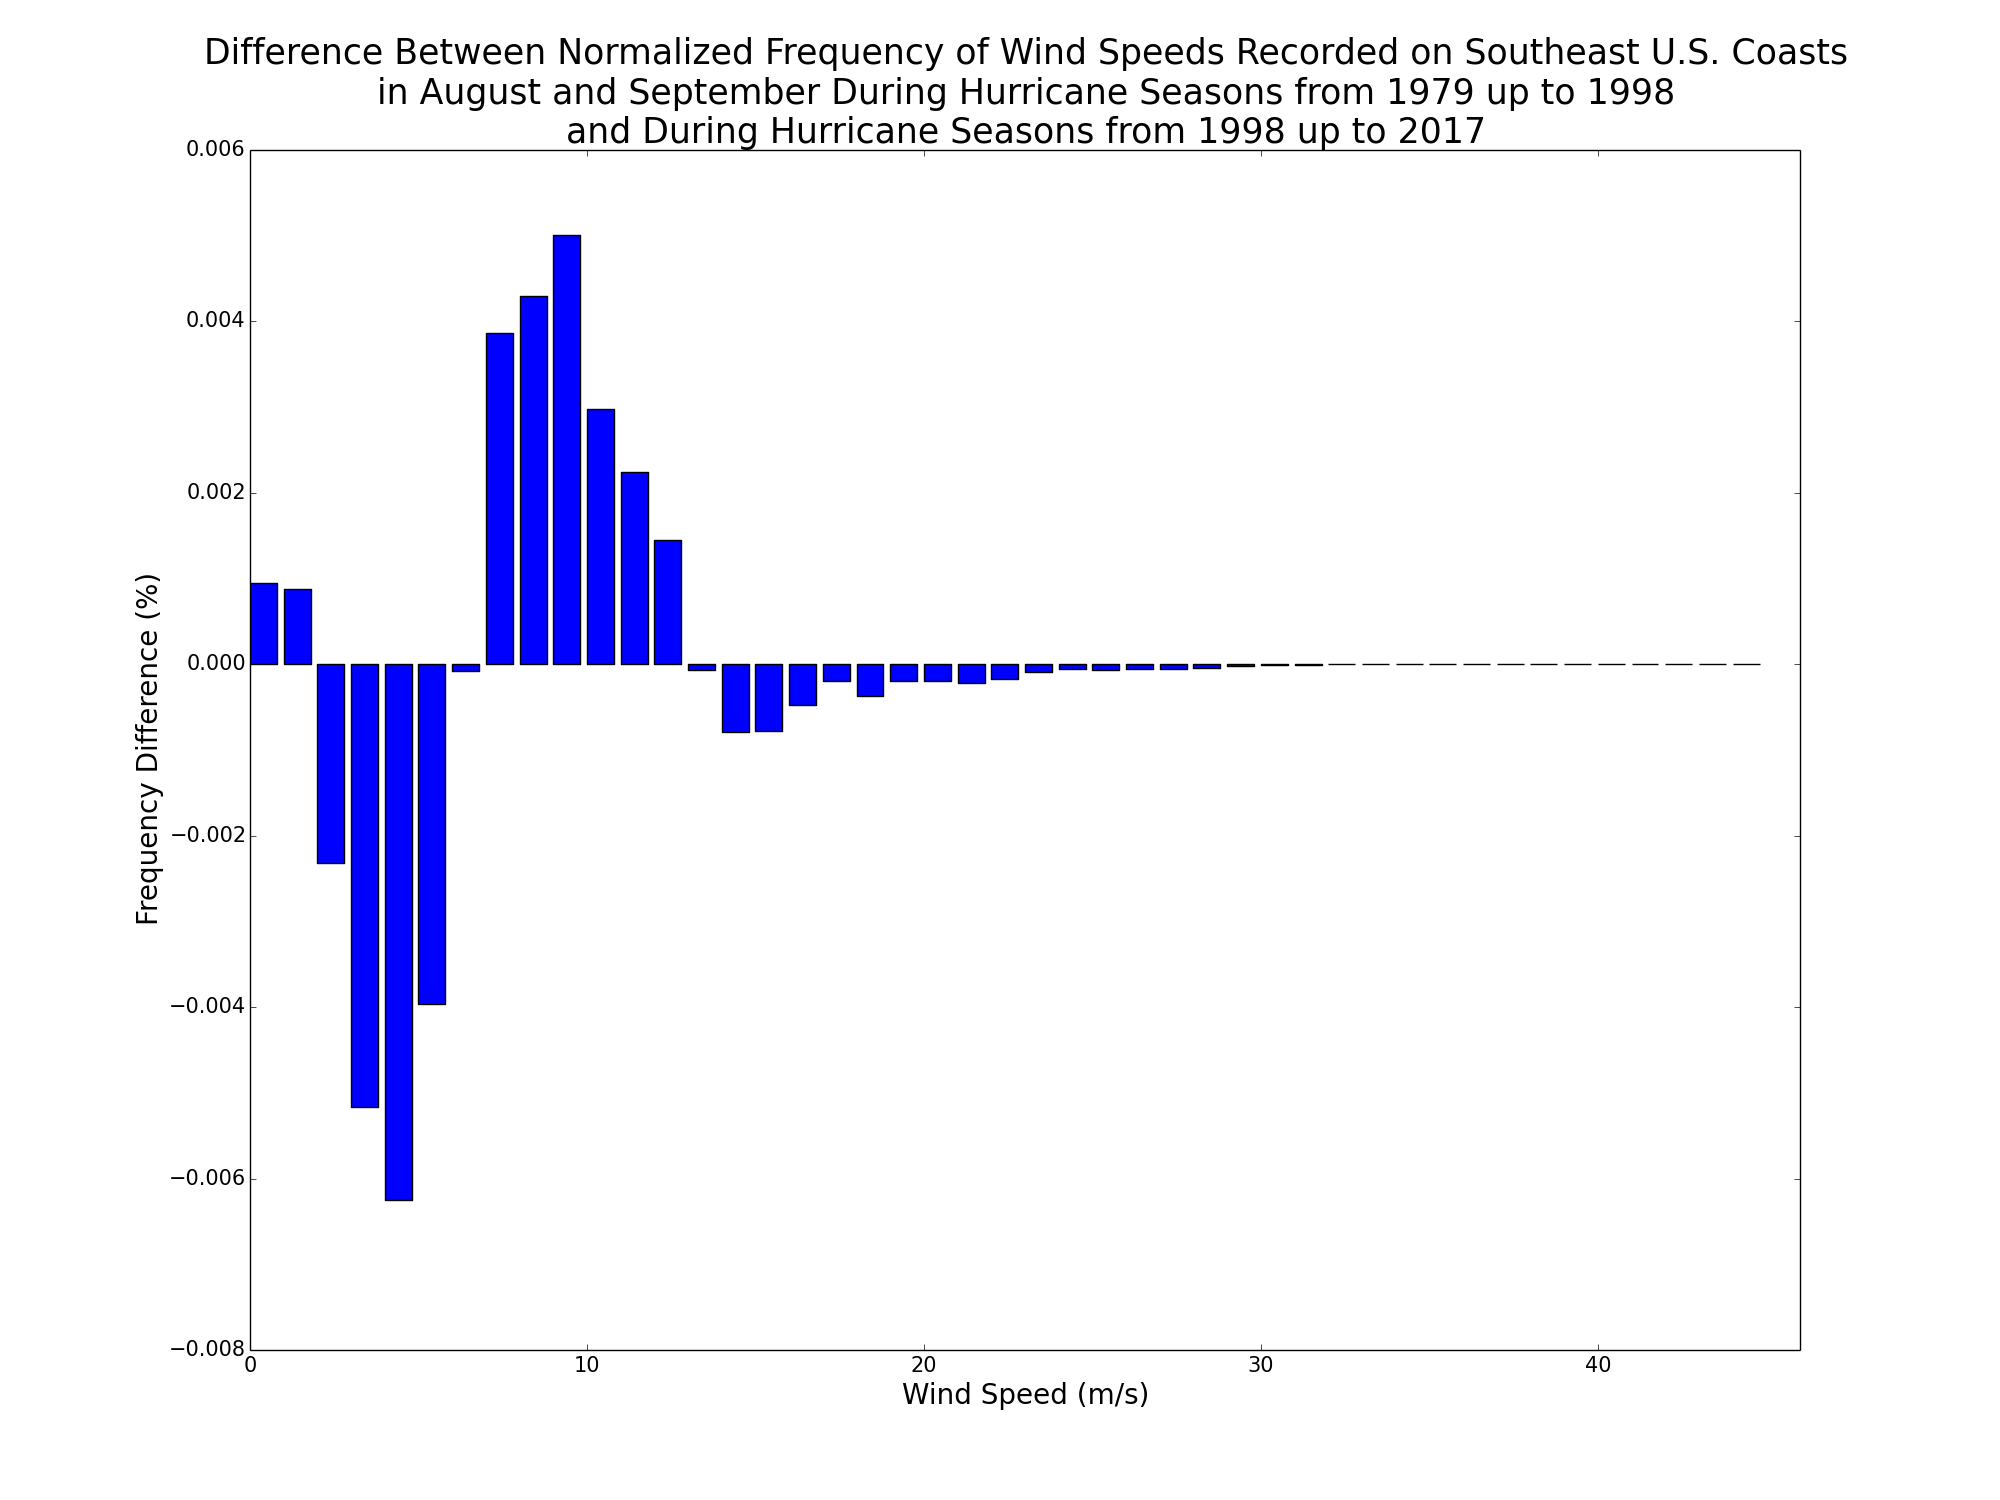
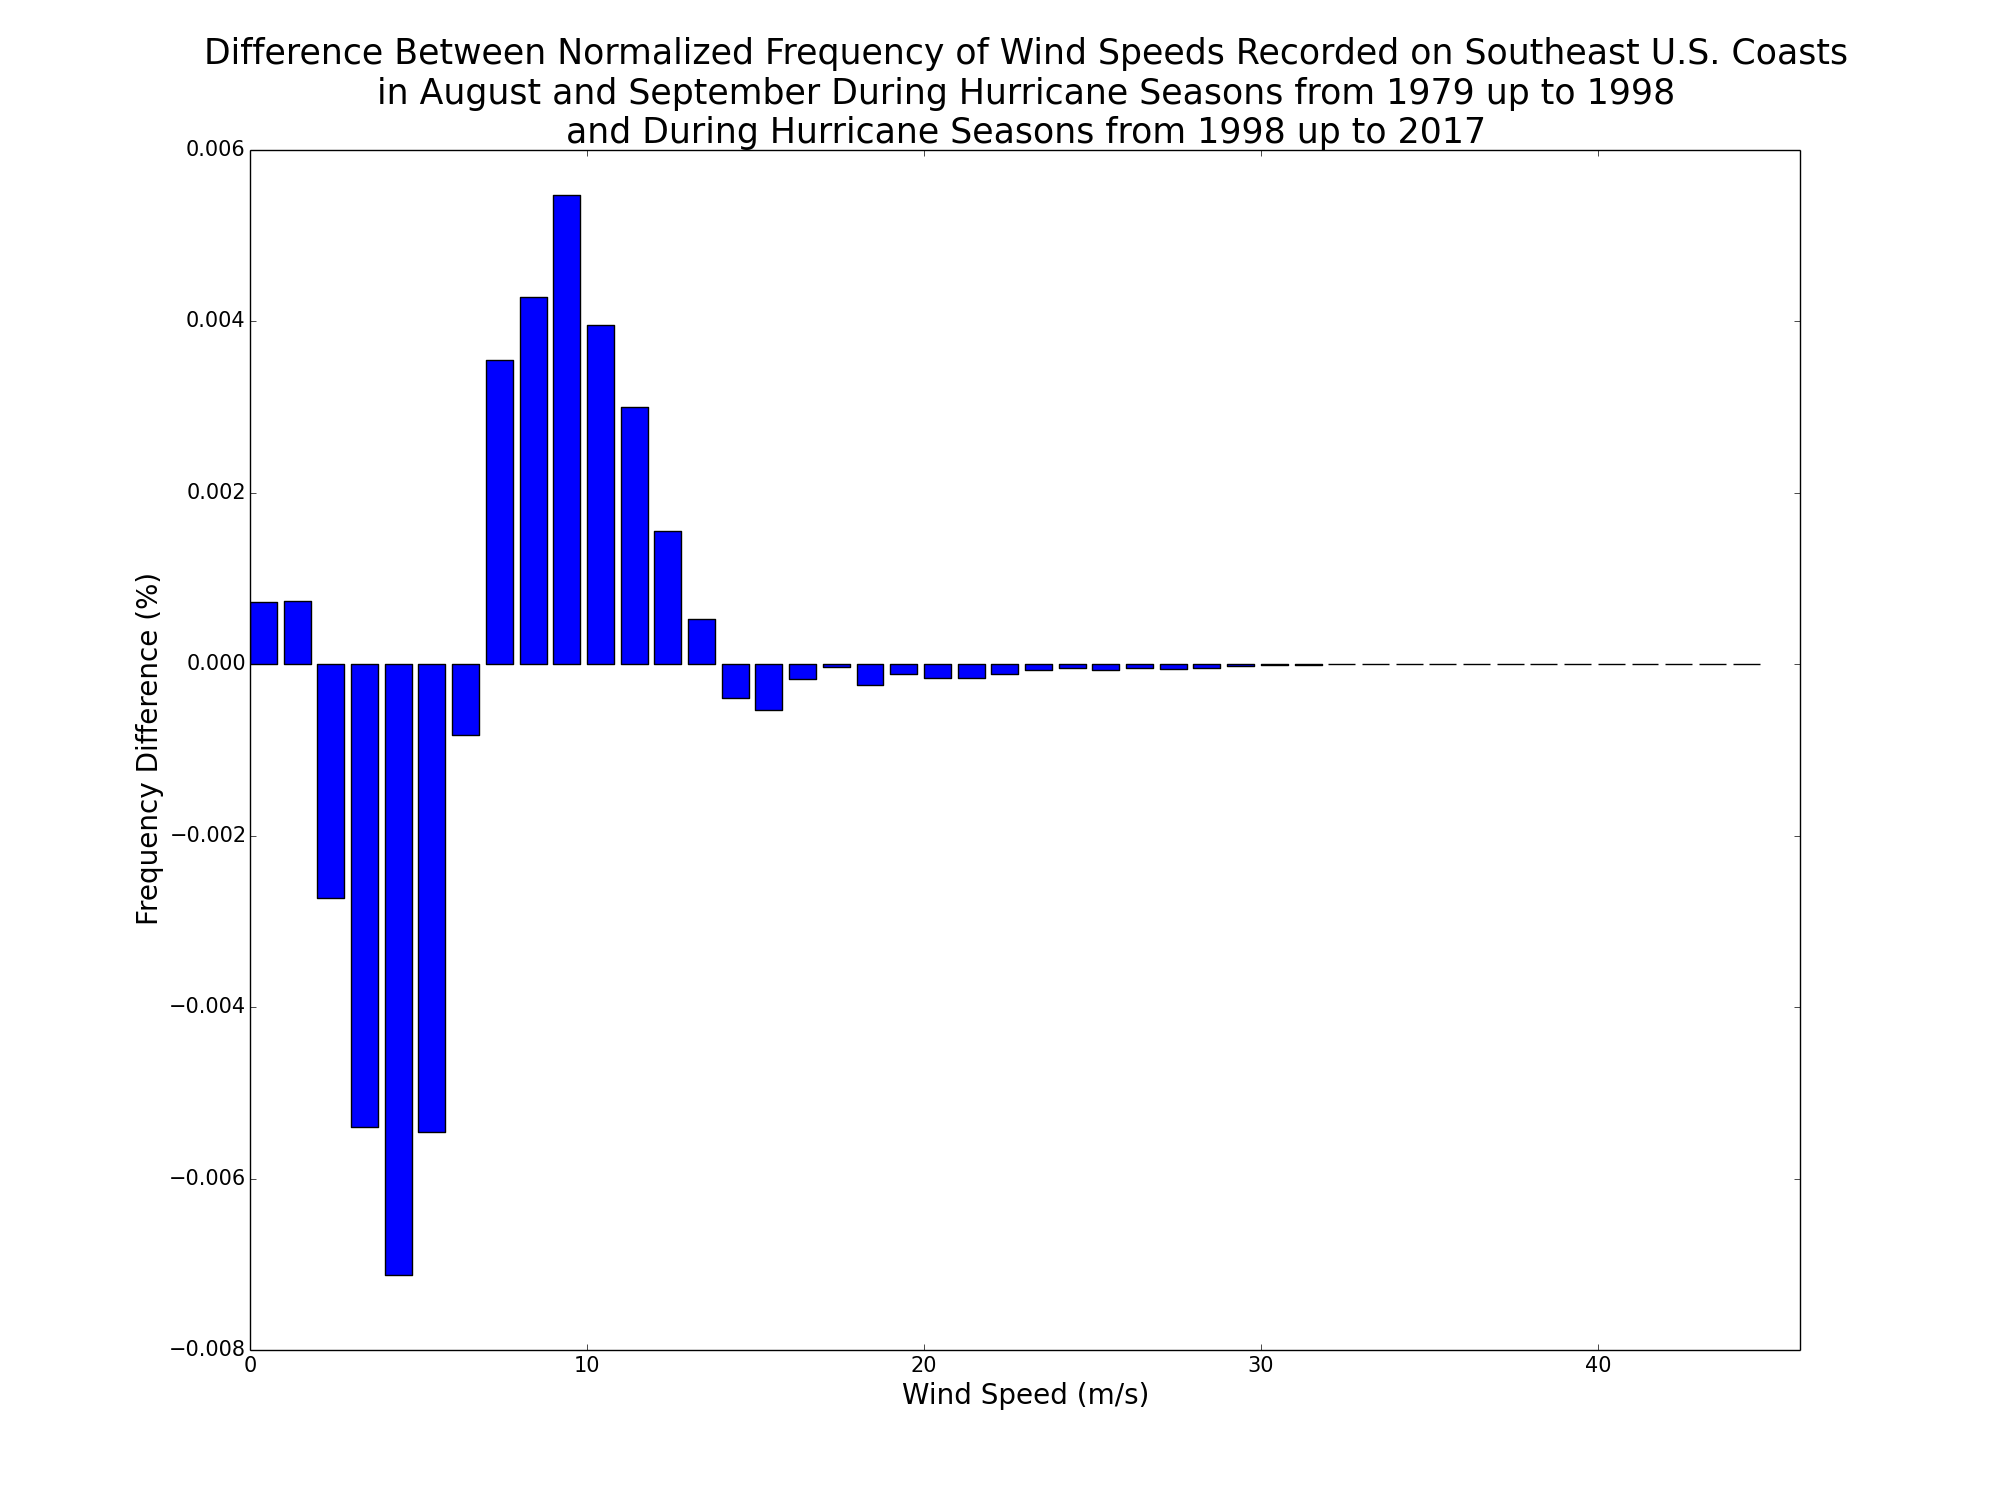
Added figures with more precise filtering of wind speed data

diff --git a/DLM_stats.py b/DLM_stats.py
@@ -316,15 +316,22 @@ def averageWindsAmongAllPoints(wind_speeds):
     # For each time, average the wind speed between all locations
     i = 0
     while i < len(wind_speeds[0]):
-        # Reset the sum of the wind speeds
+        # Reset the sum of the wind speeds and location count
         sum_wind_speeds = 0
+        count = 0
 
         for loc in wind_speeds:
-            # Sum the wind speeds among all locations
-            sum_wind_speeds = sum_wind_speeds + loc[i]
+            if not np.isnan(loc[i]):
+                # Sum the wind speeds among all locations
+                sum_wind_speeds = sum_wind_speeds + loc[i]
+                count = count + 1
 
         # Average the wind speed for the current time
-        avg_wind_speeds.append(sum_wind_speeds/len(wind_speeds))
+        if count != 0:
+            avg_wind_speeds.append(sum_wind_speeds/count)
+        else:
+            avg_wind_speeds.append(float('nan'))
+
         i = i + 1
 
     return avg_wind_speeds
@@ -365,40 +372,30 @@ def normalizeWindSpeeds(wind_speed_freq):
 #                           speeds measured during ongoing tropical cyclones set to
 #                           NaN
 def removeTCWinds(wind_speeds, dates_and_times, locs, times_to_remove, locs_to_remove):
-    # An array storing the dates/times at which potentially contaminated DLM winds were
-    # taken
-    #times_to_remove = [datetime.strptime('20050825, 0600', '%Y%m%d, %H%M'), datetime.strptime('20050825, 1200', '%Y%m%d, %H%M'),
-    #                   datetime.strptime('20050825, 1800', '%Y%m%d, %H%M'), datetime.strptime('20050826, 0000', '%Y%m%d, %H%M'),
-    #                   datetime.strptime('20050826, 0600', '%Y%m%d, %H%M'), datetime.strptime('20050826, 1200', '%Y%m%d, %H%M'),
-    #                   datetime.strptime('20050826, 1800', '%Y%m%d, %H%M'), datetime.strptime('20050827, 0000', '%Y%m%d, %H%M'),
-    #                   datetime.strptime('20050827, 0600', '%Y%m%d, %H%M'), datetime.strptime('20050827, 1200', '%Y%m%d, %H%M'),
-    #                   datetime.strptime('20050827, 1800', '%Y%m%d, %H%M'), datetime.strptime('20050828, 0000', '%Y%m%d, %H%M'),
-    #                   datetime.strptime('20050828, 0600', '%Y%m%d, %H%M'), datetime.strptime('20050828, 1200', '%Y%m%d, %H%M'),
-    #                   datetime.strptime('20050828, 1800', '%Y%m%d, %H%M'), datetime.strptime('20050829, 0000', '%Y%m%d, %H%M'),
-    #                   datetime.strptime('20050829, 0600', '%Y%m%d, %H%M'), datetime.strptime('20050829, 1200', '%Y%m%d, %H%M'),
-    #                   datetime.strptime('20050829, 1800', '%Y%m%d, %H%M'), datetime.strptime('20050830, 0000', '%Y%m%d, %H%M')]
-
-    # An array storing arrays of locations to remove winds from. Each index corresponds to
-    # the same index for the winds to remove array
-    locs_to_remove = []
-
     new_wind_speeds = wind_speeds
-    print(new_wind_speeds[0][19395])
-    print(new_wind_speeds[0][19396])
-    # Loop through times and look for times to be removed
-    i = 0
-    while i < len(wind_speeds[0]):
-        # If the the current time's wind speed needs to be removed, remove it for all locations
-        if dates_and_times[i] in times_to_remove:
-            j = 0
 
-            while j < len(wind_speeds):
-                new_wind_speeds[j][i] = float('nan')
-                j = j + 1
+    # Loop through times and look for times that have measurements that need to be removed
+    i = 0
+    while i < len(times_to_remove):
+        j = 0
+
+        # Remove measurements for all locations that need to have them removed at the
+        # current time
+        while j < len(locs_to_remove[i]):
+            # Determine the proper location index
+            k = 0
+            while k < len(locs):
+                if np.all(locs_to_remove[i][j] == locs[k]):
+                    break
+
+                k = k + 1
+
+            # Remove the measurement by setting it to NaN
+            new_wind_speeds[k][dates_and_times.index(times_to_remove[i])] = float('nan')
+            j = j + 1
 
         i = i + 1
-    print(new_wind_speeds[0][19395])
-    print(new_wind_speeds[0][19396])
+
     return new_wind_speeds
 
 
@@ -410,8 +407,8 @@ def removeTCWinds(wind_speeds, dates_and_times, locs, times_to_remove, locs_to_r
 #               measurements were taken
 # Output: -times_to_remove: An array of Datetime objects that indicates the times when
 #                           a tropical cyclone may be affecting the DLM wind speeds
-#         -locs_to_remove: An array containing the locations that were impacted by
-#                          the tropical cyclone at the corresponding index in the
+#         -locs_to_remove: An array containing arrays of locations that were impacted
+#                          by the tropical cyclone at the corresponding index in the
 #                          times_to_remove array
 def readBestTracks(filename, locs):
     times_to_remove = []
@@ -431,20 +428,44 @@ def readBestTracks(filename, locs):
            # Only take times at 0000, 0600, 1200, and 1800
            if (line[10:14] == '0000') or (line[10:14] == '0600') or (line[10:14] == '1200') or (line[10:14] == '1800'):
 
-               # Only consider tropical depressions, tropical storms, and hurricanes
-               if (line[19:21] == 'TD') or (line[19:21] == 'TS') or (line[19:21] == 'HU'):
+               # Only consider tropical storms and hurricanes
+               if (line[19:21] == 'TS') or (line[19:21] == 'HU'):
 
                    # Remove any tropical cyclones that were too far away from the region
                    # of interest
                    if (float(line[23:27]) < 38) and (float(line[23:27]) > 20) and (float(line[30:35]) < 105) and (float(line[30:35]) > 72):
+                       # The radius (in degrees) used to determine how far away from the
+                       # eye of the tropical cyclone should data points be removed
+                       if line[19:21] == 'HU':
+                           deg_radius = max(60 * 8, float(line[49:53]), float(line[55:59]), float(line[61:65]), float(line[67:71])) / 60
+                       else:
+                           deg_radius = max(60 * 6, float(line[49:53]), float(line[55:59]), float(line[61:65]), float(line[67:71])) / 60
 
-                       # Add the time that needs to be removed
-                       times_to_remove.append(datetime.strptime(line[0:14], '%Y%m%d, %H%M'))
-                       print(line[0:14])
-                       # TODO: Add the locations that need to be removed
+                       # Get eye location
+                       eye_loc = [float(line[30:35]) * -1, float(line[23:27])]
 
+                       # Go through the location array and see which locations fall in
+                       # the defined radius
+                       in_range = 0
+                       locs_in_range = []
+                       for loc in locs:
+                           # Add any locations seeing at least tropical storm force winds
+                           # at the current time to an array
+                           if (abs(loc[0] - eye_loc[0]) <= deg_radius) and (abs(loc[1] - eye_loc[1]) <= deg_radius):
+                               in_range = 1
+                               locs_in_range.append(loc)
+
+                       # Indicate that there are locations that need to be removed at
+                       # this time
+                       if in_range != 0:
+                           # Add the time that needs to be removed
+                           times_to_remove.append(datetime.strptime(line[0:14], '%Y%m%d, %H%M'))
+
+                           # Add the locations that need to be removed
+                           locs_to_remove.append(locs_in_range)
 
     return times_to_remove, locs_to_remove
+
 
 ######################################################################################
 ##                                   Begin Program                                  ##
